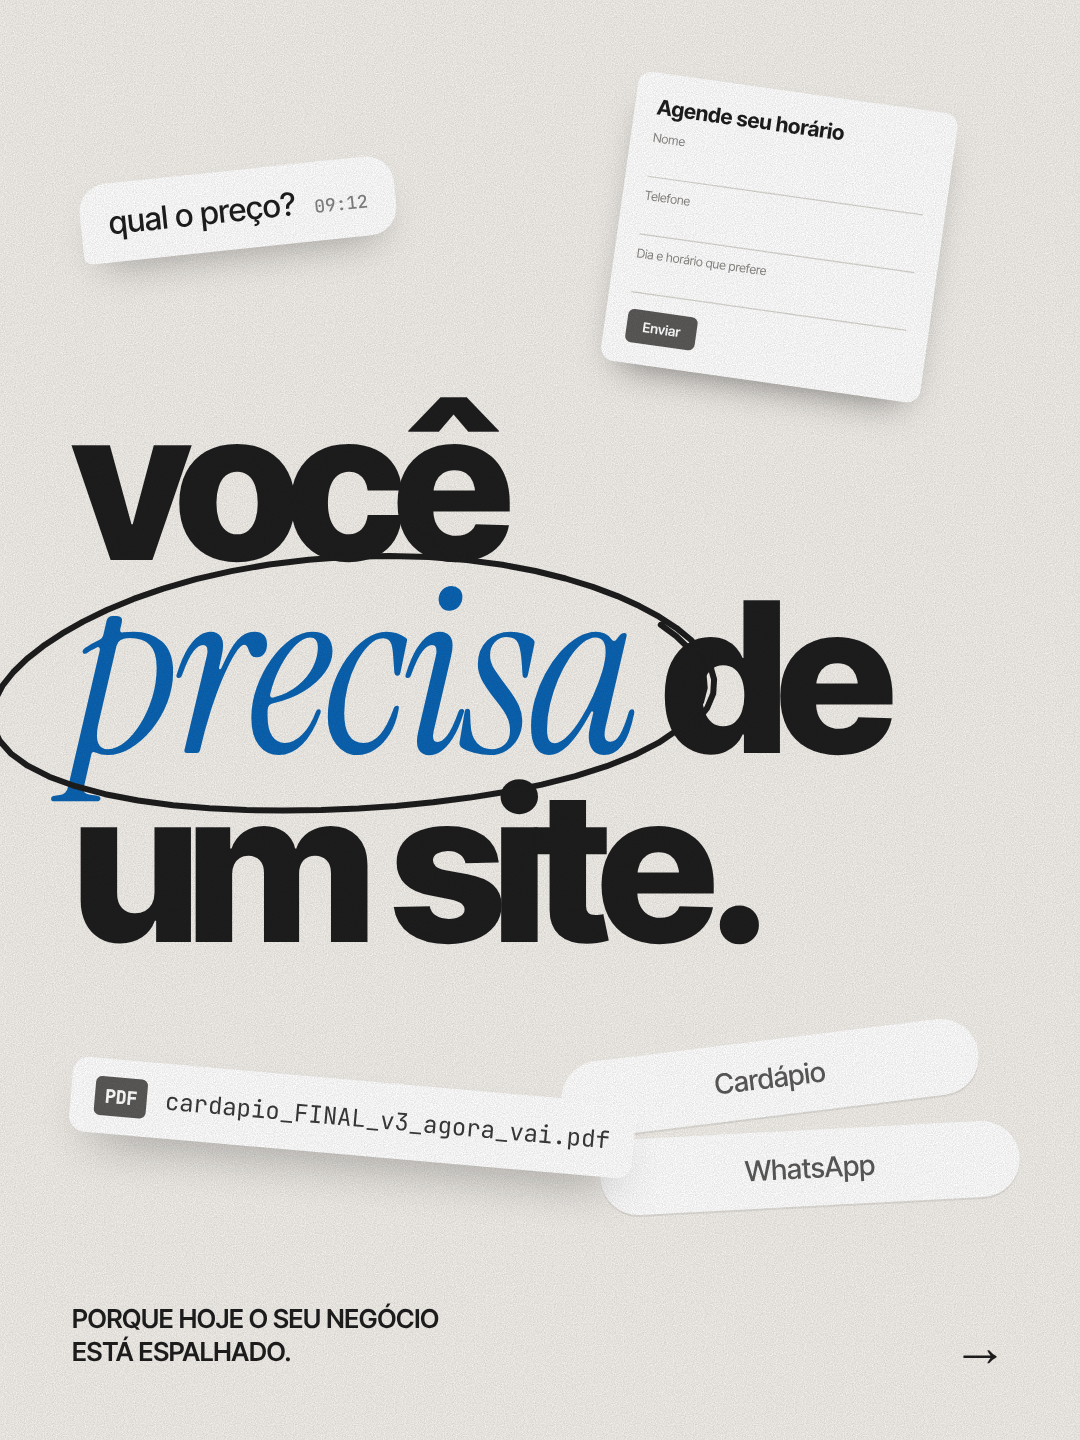
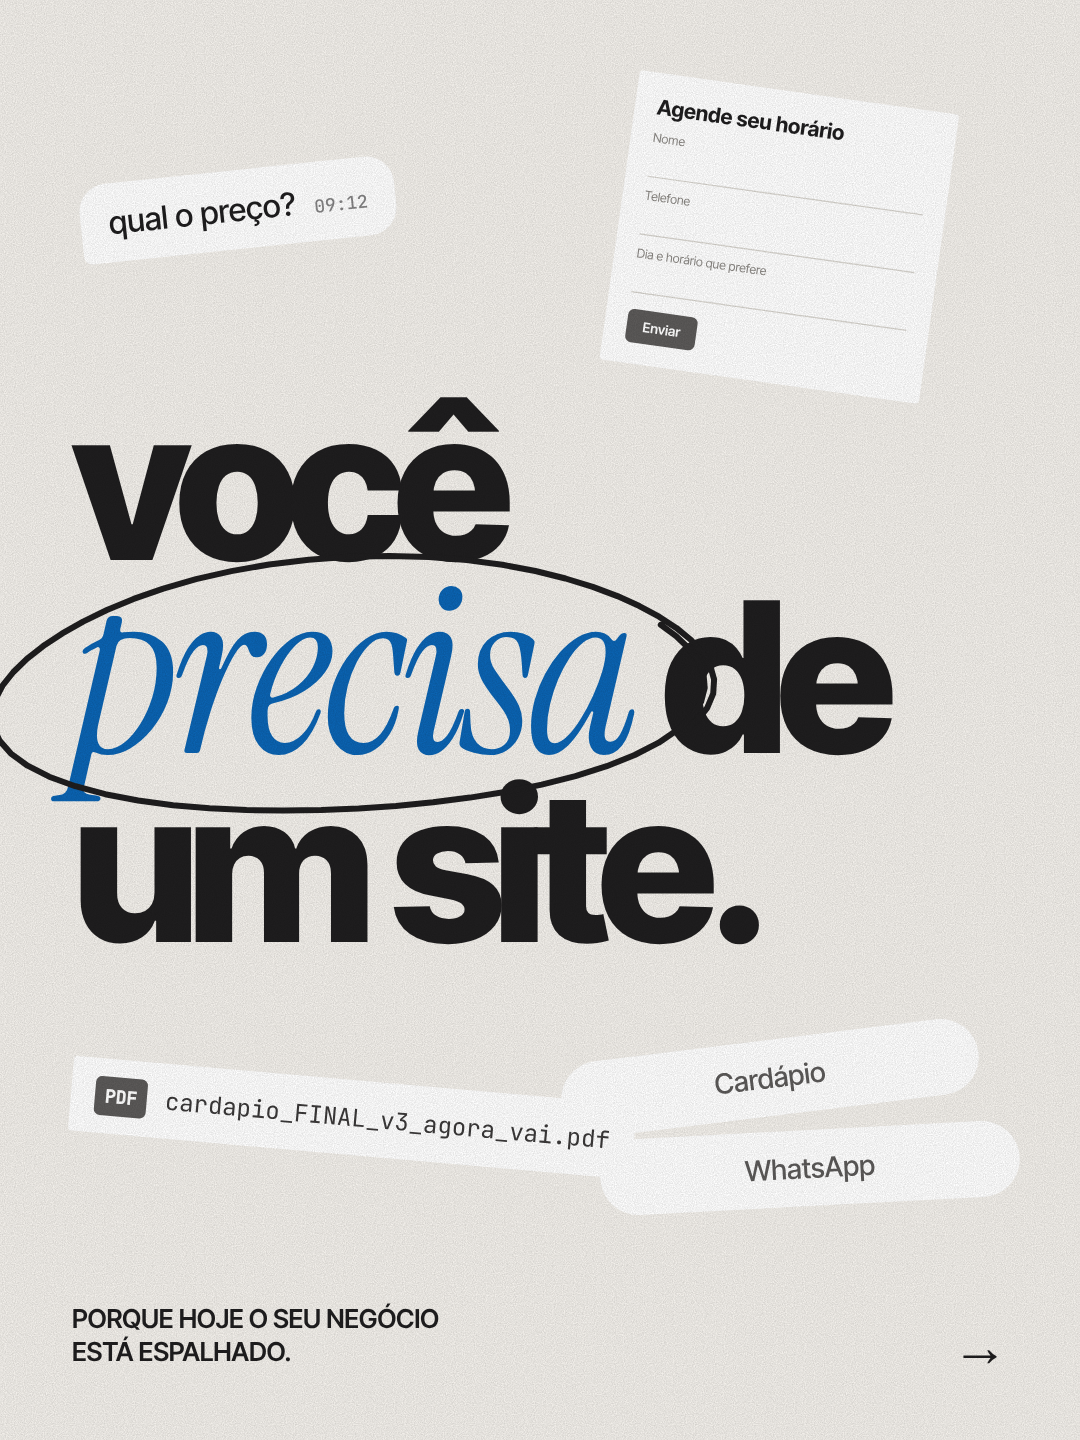
"Você precisa de um site": nova imagem do Gordinho, mais elementos do banco e sem marcas de IA
Claude-Session: https://claude.ai/code/session_01P2gMEPFx4h5Snu2b9VrmuT

Changed region(s): [[0.0917, 0.7812, 0.55, 0.8438], [0.5806, 0.25, 0.825, 0.3125], [0.1222, 0.1562, 0.3361, 0.1875]]

diff --git a/modelos/posts/espalhado.py b/modelos/posts/espalhado.py
@@ -20,26 +20,26 @@ body { width:1080px; background:#000; }
 .arrow { right:72px; font-size:56px; font-weight:400; line-height:1; z-index:3; }
 .img { z-index:2; }
 .tag { left:72px; top:110px; display:flex; align-items:center; gap:14px; font-family:"JetBrains Mono",monospace; font-size:22px; letter-spacing:.08em; text-transform:uppercase; z-index:4; }
-.tag i { width:14px; height:14px; border-radius:50%; background:var(--blue); box-shadow:0 0 0 6px rgba(10,99,178,.18); }
-.blue .tag i { background:var(--cream); box-shadow:0 0 0 6px rgba(242,239,234,.2); }
-.shot { border-radius:22px; overflow:hidden; z-index:2; box-shadow:0 40px 80px -40px rgba(0,0,0,.6); }
+.tag i { display:none; }
+
+.shot { border-radius:6px; overflow:hidden; z-index:2;  }
 .shot img { display:block; width:100%; }
-.phone { border-radius:56px; padding:12px; background:#121112; z-index:2; box-shadow:0 0 0 2px rgba(255,255,255,.08), 0 50px 90px -40px rgba(0,0,0,.7); }
+.phone { border-radius:56px; padding:12px; background:#121112; z-index:2; outline:2px solid rgba(242,239,234,.14); }
 .phone .sc { border-radius:44px; overflow:hidden; height:100%; }
 .phone .sc img { display:block; width:100%; }
 .ui { z-index:3; font-family:"Inter Tight",sans-serif; }
-.card { background:#fff; color:#3a3838; border-radius:22px; padding:34px 36px; box-shadow:0 30px 60px -30px rgba(0,0,0,.5); }
+.card { background:#fff; color:#3a3838; border-radius:6px; padding:34px 36px;  }
 .card .lb { font-size:20px; color:#8a8783; margin:18px 0 8px; }
 .card .in { height:44px; border-bottom:2px solid #d8d5cf; }
 .btn { display:inline-block; margin-top:26px; background:#5b5958; color:#fff; font-weight:600; font-size:22px; padding:14px 26px; border-radius:10px; }
-.pill { width:600px; height:76px; border-radius:999px; background:#fff; color:#5b5958; display:grid; place-items:center; font-size:28px; font-weight:500; box-shadow:0 2px 0 rgba(0,0,0,.08); }
-.file { display:flex; align-items:center; gap:18px; background:#fff; color:#3a3838; border-radius:16px; padding:18px 24px; font-family:"JetBrains Mono",monospace; font-size:24px; box-shadow:0 24px 50px -24px rgba(0,0,0,.45); }
+.pill { width:600px; height:76px; border-radius:999px; background:#fff; color:#5b5958; display:grid; place-items:center; font-size:28px; font-weight:500;  }
+.file { display:flex; align-items:center; gap:18px; background:#fff; color:#3a3838; border-radius:4px; padding:18px 24px; font-family:"JetBrains Mono",monospace; font-size:24px;  }
 .file b { background:#5b5958; color:#fff; font-size:18px; padding:8px 10px; border-radius:6px; }
 .bub { background:#f2efea; color:#1e1d1e; border-radius:28px 28px 28px 8px; padding:20px 28px; font-size:32px; font-weight:500; display:inline-flex; gap:18px; align-items:baseline; }
 .stamp { border:5px solid currentColor; padding:10px 20px 8px; font-family:"JetBrains Mono",monospace; font-weight:800; font-size:30px; letter-spacing:.14em; text-transform:uppercase; z-index:6; border-radius:6px; }
 .antes { left:72px; font-size:24px; font-weight:600; letter-spacing:-.01em; text-transform:uppercase; opacity:.55; z-index:3; }
 .antes s { text-decoration:line-through; text-decoration-thickness:3px; }
-.chk { display:inline-flex; align-items:center; gap:16px; background:#fff; color:#1e1d1e; border-radius:999px; padding:16px 28px 16px 18px; font-size:32px; font-weight:600; letter-spacing:-.02em; box-shadow:0 2px 0 rgba(0,0,0,.08); }
+.chk { display:inline-flex; align-items:center; gap:16px; background:#fff; color:#1e1d1e; border-radius:999px; padding:16px 28px 16px 18px; font-size:32px; font-weight:600; letter-spacing:-.02em;  }
 .chk i { width:40px; height:40px; border-radius:50%; background:var(--blue); color:#fff; display:grid; place-items:center; font-style:normal; font-size:24px; }
 .bub small { font-family:"JetBrains Mono",monospace; font-size:18px; opacity:.55; }
 
@@ -114,14 +114,14 @@ def BUB(x, y, t, h, rot=0):
 
 
 def prova(n, cor, cliente, titulo, antes, depois, arte, carimbo):
-    return slide(n, cor, f'<p class="tag"><i></i>cliente real · {cliente}</p>{titulo}{arte}{carimbo}'
+    return slide(n, cor, f'<p class="tag"><i></i>{cliente}</p>{titulo}{arte}{carimbo}'
                  f'<p class="antes" style="bottom:150px"><s>antes: {antes}</s></p>', depois)
 
 
 S = [
     # 1 · capa: o título no meio e o negócio espalhado em volta, como colagem
     slide(1, "cream", FORM(640, 70, 520, 8, "transform:scale(.62);transform-origin:top left")
-          + BUB(80, 170, "qual o preço?", "09:12", -6).replace('class="ui bub"', 'class="ui bub" style="background:#fff"', 0).replace('rotate:-6deg', 'rotate:-6deg;background:#fff;box-shadow:0 20px 40px -20px rgba(0,0,0,.35)')
+          + BUB(80, 170, "qual o preço?", "09:12", -6).replace('rotate:-6deg', 'rotate:-6deg;background:#fff')
           + PILL(560, 1040, "Cardápio", -7, 420) + PILL(600, 1130, "WhatsApp", -3, 420)
           + PDF(70, 1080, 5)
           + '<h1 class="h" style="top:390px;font-size:210px">você<br><i>precisa</i> de<br>um site.</h1>'
@@ -130,14 +130,15 @@ S = [
     # 2 · agenda no forms: o formulário riscado e o cliente esperando
     slide(2, "black", '<h1 class="h" style="top:110px;font-size:200px">agenda<br>no <i>forms.</i></h1>'
           + FORM(150, 600, 780, -3) + xis(470, 760, 170)
-          + nota_mao(520, 1190, "e o cliente esperando…", rot=-5, size=44),
+          + f'<img class="img" src="{T}pressa-claro.png" style="left:50px;top:930px;width:380px;z-index:4">'
+          + nota_mao(520, 1190, "…e o cliente indo embora.", rot=-5, size=44),
           "o cliente preenche e fica esperando<br>você conferir, confirmar e responder."),
     # 3 · links no linktree: a lista igual, com o nome deles riscado
     slide(3, "blue", '<h1 class="h" style="top:110px;font-size:200px">links no<br><i>linktree.</i></h1>'
-          + "".join(PILL(240 + i * 14, 600 + i * 104, t, -4 + i * 2) for i, t in enumerate(["Cardápio", "WhatsApp", "Instagram", "Localização"]))
-          + '<p class="ui" style="left:240px;top:1040px;font-family:\'JetBrains Mono\',monospace;font-size:30px">linktr.ee/seunegocio</p>'
-          + risco("M 232 1062 Q 330 1052 425 1060", "#f2efea", 7)
-          + nota_mao(520, 1100, "o nome que aparece<br>é o deles", "#f2efea", -3, 42),
+          + "".join(PILL(110 + i * 14, 600 + i * 104, t, -4 + i * 2, 540) for i, t in enumerate(["Cardápio", "WhatsApp", "Instagram", "Localização"]))
+          + f'<img class="img" src="{T}tvs.png" style="left:700px;top:780px;height:430px">' + '<p class="ui" style="left:110px;top:1040px;font-family:\'JetBrains Mono\',monospace;font-size:30px">linktr.ee/seunegocio</p>'
+          + risco("M 102 1062 Q 200 1052 295 1060", "#f2efea", 7)
+          + nota_mao(330, 1100, "o nome que aparece<br>é o deles", "#f2efea", -3, 42),
           "uma lista igual à de todo mundo, com o<br>nome de outra empresa no endereço."),
     # 4 · cardápio em pdf: o homem do jornal tentando ler
     slide(4, "cream", f'<img class="img" src="{T}fim.png" style="left:220px;top:380px;width:820px">'
@@ -147,10 +148,10 @@ S = [
           "abre pequeno no celular, ninguém lê<br>direito e o google não acha."),
     # 5 · preço só no direct: a mesma pergunta o dia todo, circulada
     slide(5, "black", '<h1 class="h" style="top:110px;font-size:190px">preço<br>só no<br><i>direct.</i></h1>'
-          + BUB(330, 760, "qual o preço?", "09:12") + BUB(390, 860, "oi, quanto custa?", "13:40")
-          + BUB(330, 960, "tem valor?", "18:05") + BUB(420, 1060, "preço?", "21:57")
-          + oval(580, 950, 330, 230, 4, "#7cbcf2", 5)
-          + nota_mao(90, 1150, "de novo.", rot=-8, size=64),
+          + BUB(80, 760, "qual o preço?", "09:12") + BUB(140, 860, "oi, quanto custa?", "13:40")
+          + BUB(80, 960, "tem valor?", "18:05") + BUB(170, 1060, "preço?", "21:57")
+          + oval(330, 950, 330, 230, 4, "#7cbcf2", 5) + f'<img class="img" src="{T}megafone-claro.png" style="left:640px;top:560px;width:520px">'
+          + nota_mao(420, 1180, "de novo.", rot=-8, size=64),
           "a mesma pergunta respondida<br>o dia inteiro, por você."),
     # 6 · tudo espalhado: os pedaços voando junto com os pássaros
     slide(6, "blue", f'<img class="img" src="{T}passaros-borrados.png" style="left:460px;top:-80px;height:1600px">'
@@ -161,16 +162,16 @@ S = [
     # 7 · um site junta tudo: os mesmos pedaços, agora em ordem
     slide(7, "cream", f'<img class="img" src="{T}cisnes.png" style="left:500px;top:40px;width:520px">'
           + '<h1 class="h" style="top:470px;font-size:170px">um site<br><i>junta tudo.</i></h1>'
-          + '<div class="ui" style="left:72px;top:860px;width:936px;display:flex;flex-wrap:wrap;gap:18px">'
-          + "".join(f'<span class="chk"><i>✓</i>{t}</span>' for t in ["agenda", "cardápio", "preço", "links", "contato", "a sua cara"]) + '</div>',
+          + '<p class="ui" style="left:72px;top:860px;width:936px;font-size:64px;font-weight:800;letter-spacing:-.05em;line-height:1.05">agenda, cardápio, preço, links, contato <i style="font-family:Instrument Serif;font-weight:400;color:var(--blue);font-size:1.15em">e a sua cara.</i></p>'
+          + risco("M 80 940 Q 300 930 520 944", "#0a63b2", 6),
           "e não é teoria. olha quem já juntou →"),
     prova(8, "black", "doce&sabor", '<h1 class="h" style="top:170px;font-size:120px">três serviços<br>espalhados,<br><i>uma página só.</i></h1>',
           "tudo combinado na conversa", "marmitas, personal chef e feijoada. cada serviço<br>com o seu botão e a mensagem já escrita.",
-          f'<div class="phone" style="left:330px;top:540px;width:420px;height:660px;rotate:-3deg"><div class="sc"><img src="{U}docesabor-celular.jpg"></div></div>',
+          f'<img class="img" src="{T}lirios-ramo-claro.png" style="left:30px;top:620px;height:640px;opacity:.9">' f'<div class="phone" style="left:330px;top:540px;width:420px;height:660px;rotate:-3deg"><div class="sc"><img src="{U}docesabor-celular.jpg"></div></div>',
           '<div class="stamp" style="left:740px;top:620px;color:var(--sky);rotate:9deg">no ar</div>'),
     prova(9, "cream", "cantina pôr do sol", '<h1 class="h" style="top:170px;font-size:130px">a reserva<br><i>já chega<br>pronta.</i></h1>',
           "toda reserva fechada no whatsapp", "o painel monta a mensagem pro whatsapp e conhece<br>as regras da casa: rodízio só de quinta a sábado.",
-          f'<div class="shot" style="left:340px;top:560px;width:640px;rotate:3deg"><img src="{U}cantina-reserva.jpg"></div>',
+          f'<img class="img" src="{T}eclipse-sol.png" style="left:30px;top:500px;width:560px">' f'<div class="shot" style="left:340px;top:560px;width:640px;rotate:3deg"><img src="{U}cantina-reserva.jpg"></div>',
           '<div class="stamp" style="left:120px;top:860px;color:var(--blue);rotate:-8deg">no ar</div>'),
     prova(10, "black", "d’conde barbearia", '<h1 class="h" style="top:170px;font-size:124px">a agenda <i>saiu<br>do whatsapp.</i></h1>',
           "agenda combinada à mão no whatsapp", "o cliente marca em 4 passos, vê só os<br>horários livres e recebe lembrete 3 horas antes.",
@@ -178,12 +179,13 @@ S = [
           '<div class="stamp" style="left:820px;top:480px;color:var(--sky);rotate:8deg">no ar</div>'),
     prova(11, "blue", "gordinho lanches", '<h1 class="h" style="top:170px;font-size:124px">34 anos de<br>história que<br><i>ninguém achava.</i></h1>',
           "quem procurava achava pouca coisa", "agora tem linha do tempo desde 1992,<br>horário do dia e pedido pelo whatsapp e ifood.",
-          f'<div class="shot" style="left:160px;top:600px;width:760px;rotate:-2deg"><img src="{U}gordinho-linha-do-tempo.jpg"></div>',
-          '<div class="stamp" style="left:790px;top:600px;color:var(--ink);background:var(--cream);rotate:9deg">no ar</div>'),
-    slide(12, "black", '<div style="left:72px;top:150px;width:120px;height:120px;border-radius:50%;background:var(--blue);box-shadow:0 0 50px rgba(74,163,234,.55)"></div>'
-          '<h1 class="h" style="top:420px;font-size:200px">vamos<br>juntar o<br><i>seu?</i></h1>'
-          + seta(620, 1140, 360, 1290, "#7cbcf2", 6, curva=90)
-          + nota_mao(640, 1080, "é só chamar", rot=-5, size=52),
+          f'<div class="shot" style="left:400px;top:560px;width:540px;rotate:3deg"><img src="{U}gordinho-hamburguer.jpg"></div>' f'<img class="img" src="{T}menino.png" style="left:20px;top:820px;height:460px;z-index:3">',
+          '<div class="stamp" style="left:120px;top:640px;color:var(--cream);rotate:-9deg">no ar</div>'),
+    slide(12, "black", '<div style="left:72px;top:150px;width:120px;height:120px;border-radius:50%;background:var(--blue)"></div>'
+          + f'<img class="img" src="{T}andorinhas-claro.png" style="left:640px;top:90px;height:620px">'
+          + '<h1 class="h" style="top:520px;font-size:200px">vamos<br>juntar o<br><i>seu?</i></h1>'
+          + seta(660, 1180, 380, 1300, "#7cbcf2", 6, curva=90)
+          + nota_mao(680, 1120, "é só chamar", rot=-5, size=52),
           "me chama no direct.<br>quem responde sou eu.", arrow=False),
 ]
 S[-1] = S[-1].replace('<div class="grain">', '<p class="sm" style="right:72px;left:auto;bottom:72px;text-align:right">senerine.dev</p><div class="grain">')

diff --git a/formatos/post.md b/formatos/post.md
@@ -29,7 +29,7 @@ Renderizar: `node modelos/render.mjs <html> <saida> 1080 1440 <n>` (acrescente `
 - **Nota com linha** no lugar do papelzinho: texto solto no fio, linha fina até o detalhe da imagem.
 - **Dor concreta do dia a dia** no lugar de dica genérica de busca: agenda no Forms, links no Linktree, cardápio em PDF, preço só no direct ("não gostei dessa pegada da busca"). E um **case real como prova** (D'Conde: agenda saiu do WhatsApp), com os números do estudo de caso.
 - **Prova social com os clientes reais** (Doce&Sabor, Cantina, D'Conde, Gordinho), cada uma com etiqueta "cliente real", captura do site, carimbo "no ar" e um **antes riscado / depois** tirado do estudo de caso.
-- **"Bem estilizado"**: pedaços de interface colados como colagem (formulário, botões do linktree, arquivo pdf, balões de mensagem), rabiscos à mão em SVG (círculo, X, seta, nota em serifa itálica), elementos girados e sobrepostos. Funções `oval`, `seta`, `xis`, `nota_mao` em `espalhado.py`.
+- **"Bem estilizado"**: pedaços de interface colados como colagem (formulário, botões do linktree, arquivo pdf, balões de mensagem), rabiscos à mão em SVG (círculo, X, seta, nota em serifa itálica), elementos girados e sobrepostos, e **imagens do banco em todo slide** (homem de maleta fugindo do formulário, TVs, megafone, lírios, sol do eclipse, menino, andorinhas). Funções `oval`, `seta`, `xis`, `nota_mao` em `espalhado.py`.
 - **Tom afirmativo** ("você precisa de um site."), não pergunta em cima do muro ("precisa mesmo?"): ele pediu "uma pegada mais, você precisa de um site".
 - **Paradoxo como gancho** ("caro e barato ao mesmo tempo") e contraste de público ("caro pra quem... / barato pra quem...").
 - **Imagem como metáfora** de cada slide (menino correndo = cliente chegando; batida = o barato que sai caro).
@@ -50,6 +50,7 @@ Renderizar: `node modelos/render.mjs <html> <saida> 1080 1440 <n>` (acrescente `
 - **Papelzinho com fita em todo slide**: "sem graça". O texto corrido agora é uma **nota**: solto no papel sobre um fio, com uma linha fina até o detalhe da imagem, que ganha um ponto azul (`nota()` em `ninguem-le.py` e `modelo-pronto.py`). Menos enfeite, mais minimalista.
 - Imagem pequena esticada no slide (borda serrilhada): converter em 2x (`DOBRO` no `tinta.py`).
 - **Zine nº 05 "precisa que te achem"**: "meio genérico". Dica de Google que todo mundo dá, explicada em nota, no mesmo molde de todos os zines. Refeito na linguagem editorial (`busca-editorial.py`).
+- **Marcas de IA** no "você precisa de um site": ícone de ✓ em bolinha, chips arredondados perfeitos, sombra embaixo de cartão, brilho (glow) no ponto, bolinha antes da etiqueta do cliente. Trocados por recorte chapado sem sombra, lista tipográfica e rabisco à mão.
 - **Cabeçalho e rodapé fixos no zine** (rótulo "senerine.dev · zine nº 03", fólio "01 / 08", régua, "vira a página →"): "tem cara de IA". Tirados do modelo pronto; não usar em posts novos.
 - **Recolorir a cor original de uma ilustração** para o azul do ponto: a cabeça azul do "ninguém lê" ficou "bem ruim" no azul da marca. Imagem que já vem com cor própria fica com a cor dela; o azul do ponto só entra onde a cor sumiria (ou no lugar do vermelho).
 - Acento da Anton embaixo de outra letra (É, Ã, Ê no começo ou no meio da 2ª linha): mesmo com `line-height:1.08` encosta. Quebrar a linha de modo que o acento fique na 1ª linha ou embaixo de espaço vazio.
